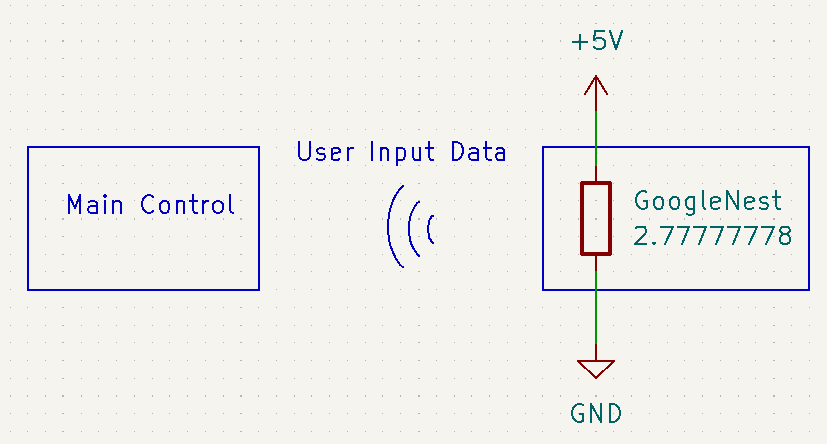
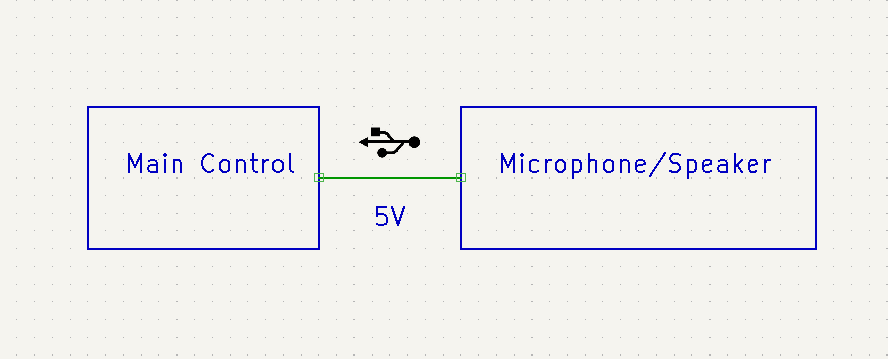
Update User Interface

diff --git a/Documentation/Signoffs/user_interface/user_interface.md b/Documentation/Signoffs/user_interface/user_interface.md
@@ -11,32 +11,27 @@ The user interface subsystem takes in voice input from the user and outputs audi
 ## Buildable Schematic
 ![schematic](https://github.com/Hawk652/Capstone-Guidance-Robot/blob/03a6a551ad9f161dd7dff29d745d47c6f72b98c4/Documentation/Images/user_interface_schematic.png)
 
-The only wired connection to the user interface subsystem is the power connection. All data is transferred wirelessly.
+The only hardware components of the user interface are the combination microphone and speaker. These will be connected via USB to the main control subsystem's Raspberry Pi. Both power and data with be transferred over this USB connection.
 
 ## Mounting
-![mount](https://github.com/Hawk652/Capstone-Guidance-Robot/blob/03a6a551ad9f161dd7dff29d745d47c6f72b98c4/Documentation/Images/NestMiniMount.png)
+![dimensions](https://github.com/Hawk652/Capstone-Guidance-Robot/blob/03a6a551ad9f161dd7dff29d745d47c6f72b98c4/Documentation/Images/user_interface_speaker_dimensions.png)
 
-The Google Nest Mini will be mounted to the AuR using the structure shown in the image above. The overall structure will be mounted using screws.
+The microphone and speaker will be mounted to the AuR using a 3d-printed mount. The above image shows the dimensions of the device.
 
 ## Analysis
 
 ### Interface
-The primary component of the user interface subsystem will be a commercially-available voice assistant. A voice assistant was chosen as the primary interface due to ease of user access. A touchscreen, the primary alternative to a voice assistant, would require the user to maneuver around a potentially moving robot in order to interface with it. This scenario would potentially be hazardous to a user, so the team has decided to implement a voice assistant instead. The voice assistant the team has chosen to use is a Google Nest Mini. This device was chosen due to its low price point, relatively low power draw, and local processing capabilities. The local processing capabilities allow the voice assistant to directly communicate with the AuR instead of using an external server as an intermediary [1].
-The user interface subsystem will send users' voice commands to the main control system for realization.
+The primary hardware component of the user interface subsystem will be a a conference microphone and speaker combination. This device will connect to the main control's raspberry pi, which will run Rhasspy, a voice assistant. Rhasspy was chosen because of its open source nature, configurability, and local processing capabilities [1]. We chose to use a voice assistant instead of another interface due to ease of user access. A touchscreen, the primary alternative to a voice assistant, would require the user to maneuver around a potentially moving robot in order to interface with it. This scenario would potentially be hazardous to a user, so the team has decided to implement a voice assistant instead.
 
 ### Power
-![simulation](https://github.com/Hawk652/Capstone-Guidance-Robot/blob/03a6a551ad9f161dd7dff29d745d47c6f72b98c4/Documentation/Images/user_interface_simulation.png)
-The Google Nest Mini requires 1.8 A at a voltage of 5 V [2]. This will be supplied by the power subsystem.
-
+The microphone and speaker are powered over a single usb type A connection. Unfortunately no documentation on the exact power specifications of the microphone and speaker were available, but the USB standard defines a voltage of 5 volts and a maximum current of 0.5 amps.
 
 ## BOM
 | Item | Quantity | Price Per Item | Total Price |
 |-|-|-|-|
-| Google Nest Mini | 1 | $50 | $50 |
-| | | Total Subsystem Cost: | $50 |
+| USB Speakerphone Microphone | 1 | $42.99 | $42.99 |
+| | | Total Subsystem Cost: | $42.99 |
 
 ## References
 
-[1] Google, “Local fulfillment &nbsp;|&nbsp; actions on google smart home &nbsp;|&nbsp; google developers,” Google. [Online]. Available: https://developers.google.com/assistant/smarthome/concepts/local. [Accessed: 16-Nov-2022].
-
-[2] Google, “Google Nest and home device specifications,” Google Nest Help. [Online]. Available: https://support.google.com/googlenest/answer/7072284. [Accessed: 16-Nov-2022]. 
+[1] Rhasspy, “Rhasspy Documentation” Rhasspy Documentation. [Online]. Available: https://rhasspy.readthedocs.io/en/latest/. [Accessed: 01-Feb-2023].
